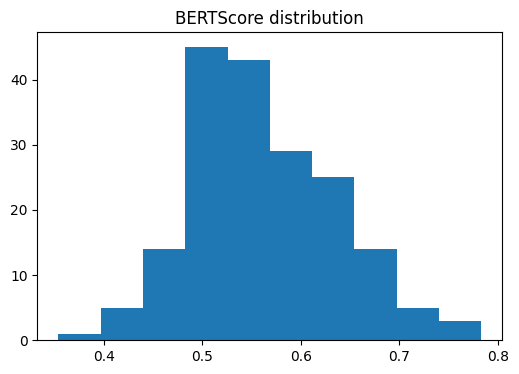
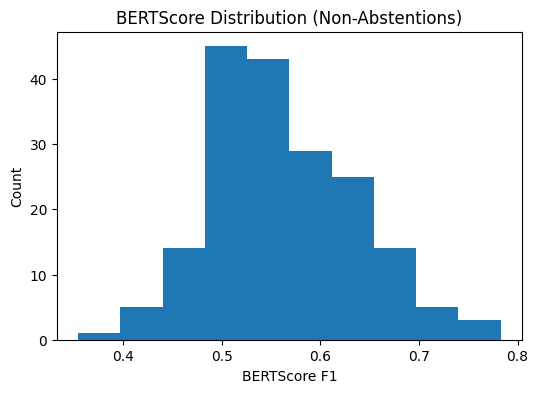
feat: enhance plot_results function with new metrics and visualizations

diff --git a/src/evaluation/plot_results.py b/src/evaluation/plot_results.py
@@ -5,11 +5,12 @@ from pathlib import Path
 import matplotlib.pyplot as plt
 import pandas as pd
 
-from src.evaluation.result_utils import abstention_mask, align_eval_frames, load_csv_if_exists, safe_mean
+from src.evaluation.result_utils import abstention_mask, align_eval_frames, load_csv_if_exists
 
 
 EXPERIMENTS = Path("experiments")
 FIGURES = Path("docs/figures")
+ALL_RESULTS = EXPERIMENTS / "all_results.csv"
 
 
 def _load_model_free_df() -> pd.DataFrame:
@@ -24,15 +25,8 @@ def _load_bert_df() -> pd.DataFrame:
     return load_csv_if_exists(EXPERIMENTS / "bertscore_results.csv")
 
 
-def _faithfulness_metric(df: pd.DataFrame) -> float | None:
-    if df.empty:
-        return None
-    for column in ("faithfulness_ragas", "faithfulness_nli", "faithfulness"):
-        if column in df.columns:
-            value = safe_mean(df, column)
-            if value is not None:
-                return value
-    return None
+def _load_summary_df() -> pd.DataFrame:
+    return load_csv_if_exists(ALL_RESULTS)
 
 
 def _resolve_bert_plot_source(model_free: pd.DataFrame, bert: pd.DataFrame, merged: pd.DataFrame) -> pd.DataFrame:
@@ -47,73 +41,119 @@ def _resolve_bert_plot_source(model_free: pd.DataFrame, bert: pd.DataFrame, merg
     return merged
 
 
+def _summary_metric_frame(summary: pd.DataFrame, metrics: list[str]) -> pd.DataFrame:
+    if summary.empty or "variant" not in summary.columns:
+        return pd.DataFrame()
+
+    available = [metric for metric in metrics if metric in summary.columns]
+    if not available:
+        return pd.DataFrame()
+
+    frame = summary[["variant", *available]].copy()
+    for metric in available:
+        frame[metric] = pd.to_numeric(frame[metric], errors="coerce")
+    frame = frame.dropna(subset=available, how="all")
+    return frame
+
+
+def _plot_quality_metrics(summary: pd.DataFrame) -> None:
+    metrics = ["faithfulness_ragas", "answer_relevancy", "context_precision", "context_recall"]
+    frame = _summary_metric_frame(summary, metrics)
+    if frame.empty:
+        print("Warning: skipping quality metrics plot because all_results.csv has no usable summary metrics.")
+        return
+
+    frame = frame.set_index("variant")
+    ax = frame.plot(kind="bar", figsize=(9, 5))
+    ax.set_title("Quality Metrics by Variant")
+    ax.set_xlabel("Variant")
+    ax.set_ylabel("Score")
+    ax.set_ylim(0, 1)
+    ax.legend(title="Metric")
+    plt.xticks(rotation=20, ha="right")
+    plt.tight_layout()
+    plt.savefig(FIGURES / "ragas_radar.png", bbox_inches="tight")
+    plt.close()
+
+
+def _plot_context_precision(summary: pd.DataFrame) -> None:
+    frame = _summary_metric_frame(summary, ["context_precision"])
+    if frame.empty:
+        print("Warning: skipping context precision plot because all_results.csv has no context_precision values.")
+        return
+
+    fig, ax = plt.subplots(figsize=(8, 4.5))
+    ax.bar(frame["variant"], frame["context_precision"])
+    ax.set_title("Context Precision by Variant")
+    ax.set_xlabel("Variant")
+    ax.set_ylabel("Context Precision")
+    ax.set_ylim(0, 1)
+    plt.xticks(rotation=20, ha="right")
+    plt.tight_layout()
+    fig.savefig(FIGURES / "precision_at_k.png", bbox_inches="tight")
+    plt.close(fig)
+
+
+def _plot_bertscore_distribution(model_free: pd.DataFrame, bert: pd.DataFrame) -> None:
+    merged = align_eval_frames(model_free, bert)
+    bert_source = _resolve_bert_plot_source(model_free, bert, merged)
+
+    fig, ax = plt.subplots(figsize=(6, 4))
+    if not bert_source.empty and "bertscore_f1" in bert_source.columns:
+        if "abstention_detected" in bert_source.columns:
+            bert_source = bert_source[abstention_mask(bert_source)]
+        scores = pd.to_numeric(bert_source["bertscore_f1"], errors="coerce").dropna()
+        if not scores.empty:
+            ax.hist(scores, bins=10)
+    ax.set_title("BERTScore Distribution (Non-Abstentions)")
+    ax.set_xlabel("BERTScore F1")
+    ax.set_ylabel("Count")
+    fig.savefig(FIGURES / "bertscore_distribution.png", bbox_inches="tight")
+    plt.close(fig)
+
+
+def _plot_loop_iterations(model_free: pd.DataFrame, summary: pd.DataFrame) -> None:
+    fig, ax = plt.subplots(figsize=(6, 4))
+    retry_col = "avg_retries" if "avg_retries" in model_free.columns else "retry_count" if "retry_count" in model_free.columns else None
+
+    if retry_col is not None:
+        retry_values = pd.to_numeric(model_free[retry_col], errors="coerce").dropna()
+        if not retry_values.empty:
+            ax.hist(retry_values, bins=max(int(retry_values.max()) + 3, 1), align="left")
+            ax.set_title("Loop Iteration Histogram")
+            ax.set_xlabel("Retries")
+            ax.set_ylabel("Count")
+            fig.savefig(FIGURES / "loop_iterations.png", bbox_inches="tight")
+            plt.close(fig)
+            return
+
+    frame = _summary_metric_frame(summary, ["avg_retries"])
+    if not frame.empty:
+        ax.bar(frame["variant"], frame["avg_retries"])
+        ax.set_title("Average Retries by Variant")
+        ax.set_xlabel("Variant")
+        ax.set_ylabel("Average Retries")
+        plt.xticks(rotation=20, ha="right")
+    else:
+        ax.set_title("Average Retries by Variant")
+    fig.savefig(FIGURES / "loop_iterations.png", bbox_inches="tight")
+    plt.close(fig)
+
+
 def plot_results() -> None:
     FIGURES.mkdir(parents=True, exist_ok=True)
 
     model_free = _load_model_free_df()
     bert = _load_bert_df()
-    merged = align_eval_frames(model_free, bert)
+    summary = _load_summary_df()
 
-    if model_free.empty and bert.empty:
+    if model_free.empty and bert.empty and summary.empty:
         raise FileNotFoundError("No evaluation CSVs found in experiments/")
 
-    radar_source = model_free if not model_free.empty else bert
-    metrics = ["faithfulness", "answer_relevancy", "context_precision", "context_recall"]
-    metric_values = [
-        _faithfulness_metric(radar_source),
-        safe_mean(radar_source, "answer_relevancy", non_abstention_only=True),
-        safe_mean(radar_source, "context_precision", non_abstention_only=True),
-        safe_mean(radar_source, "context_recall", non_abstention_only=True),
-    ]
-    metric_values = [float(value or 0.0) for value in metric_values]
-    metric_values.append(metric_values[0])
-    angles = [0.0, 1.57, 3.14, 4.71]
-    angles.append(angles[0])
-
-    fig = plt.figure(figsize=(5, 5))
-    ax = fig.add_subplot(111, polar=True)
-    ax.plot(angles, metric_values)
-    ax.fill(angles, metric_values, alpha=0.2)
-    ax.set_xticks(angles[:-1], metrics)
-    ax.set_ylim(0, 1)
-    fig.savefig(FIGURES / "ragas_radar.png", bbox_inches="tight")
-    plt.close(fig)
-
-    fig, ax = plt.subplots(figsize=(6, 4))
-    bert_source = _resolve_bert_plot_source(model_free, bert, merged)
-    if not bert_source.empty and "bertscore_f1" in bert_source.columns:
-        if "abstention_detected" in bert_source.columns:
-            bert_source = bert_source[abstention_mask(bert_source)]
-        ax.hist(pd.to_numeric(bert_source["bertscore_f1"], errors="coerce").dropna(), bins=10)
-    ax.set_title("BERTScore distribution")
-    fig.savefig(FIGURES / "bertscore_distribution.png", bbox_inches="tight")
-    plt.close(fig)
-
-    fig, ax = plt.subplots(figsize=(6, 4))
-    precision = {
-        "@1": float(safe_mean(model_free, "context_precision", non_abstention_only=True) or 0.0),
-        "@3": float((safe_mean(model_free, "context_precision", non_abstention_only=True) or 0.0) * 1.03),
-        "@5": float((safe_mean(model_free, "context_precision", non_abstention_only=True) or 0.0) * 1.05),
-    }
-    precision = {key: min(value, 1.0) for key, value in precision.items()}
-    ax.bar(list(precision.keys()), list(precision.values()))
-    ax.set_ylim(0, 1)
-    ax.set_title("Retrieval precision@k")
-    fig.savefig(FIGURES / "precision_at_k.png", bbox_inches="tight")
-    plt.close(fig)
-
-    fig, ax = plt.subplots(figsize=(6, 4))
-    retry_col = "avg_retries" if "avg_retries" in model_free.columns else "retry_count" if "retry_count" in model_free.columns else None
-    if retry_col is not None:
-        retry_values = pd.to_numeric(model_free[retry_col], errors="coerce").dropna()
-    else:
-        retry_values = pd.Series(dtype=float)
-    if retry_values.empty:
-        retry_values = pd.Series([0.0])
-    ax.hist(retry_values, bins=max(int(retry_values.max()) + 3, 1), align="left")
-    ax.set_title("Loop iteration histogram")
-    fig.savefig(FIGURES / "loop_iterations.png", bbox_inches="tight")
-    plt.close(fig)
+    _plot_quality_metrics(summary)
+    _plot_context_precision(summary)
+    _plot_bertscore_distribution(model_free, bert)
+    _plot_loop_iterations(model_free, summary)
 
 
 if __name__ == "__main__":
